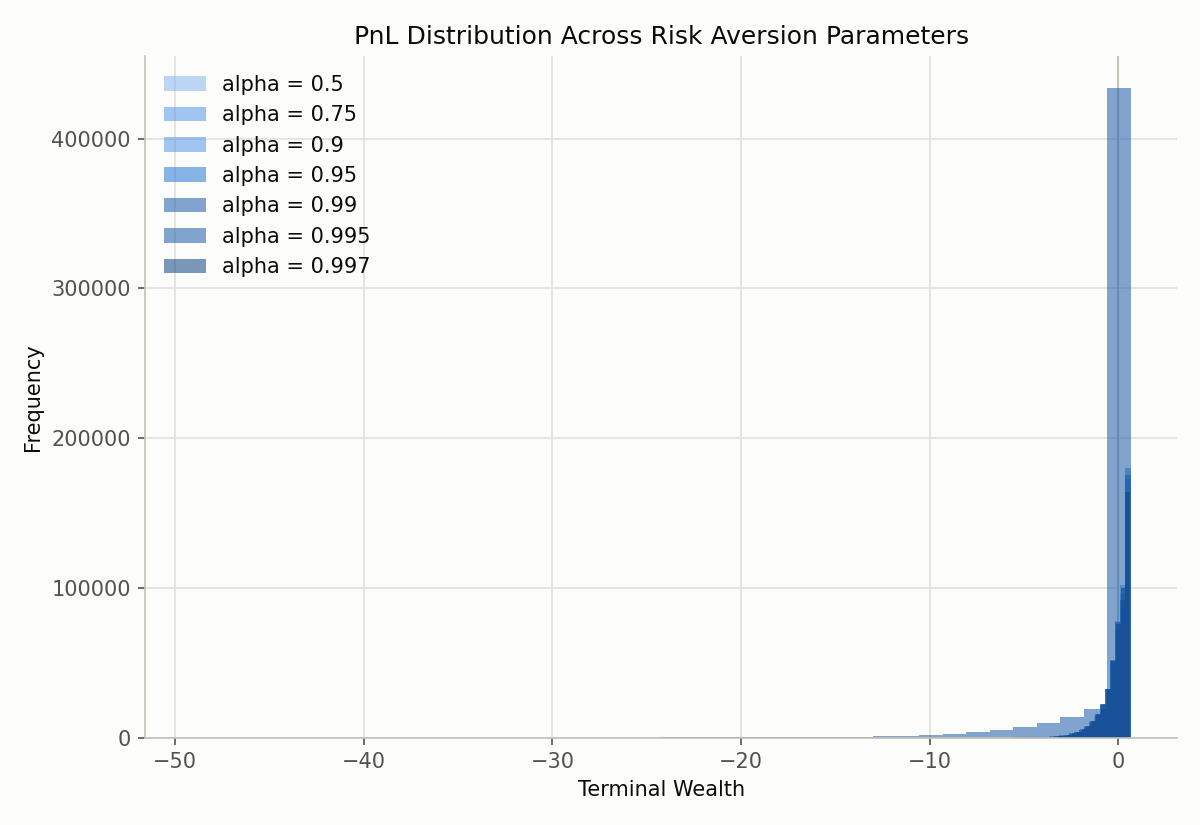
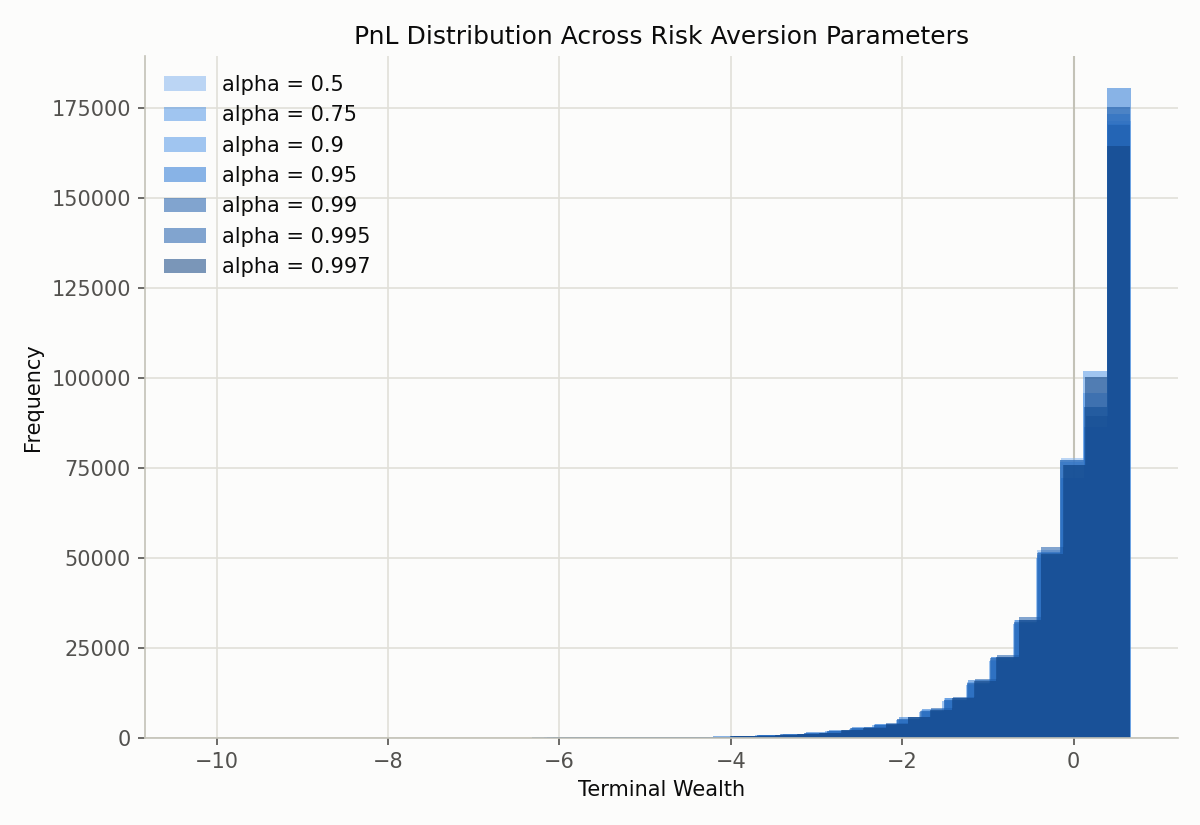
Extend mechanism (a) fix to alpha=0.99; diagnose (and rule out fixing) three other candidates
Checked every remaining tail-risk checkpoint directly with the same
training-free diagnostic that found mechanism (a) (raw pre-activation
logit / hidden state across a spot grid) before spending any retrain
compute -- reordered the whole remaining priority list:

- alpha=0.99 (MLP): confirmed the same sigmoid-saturation mechanism as
  alpha=0.997, even more severely (logits to -718). Retrained with
  grad_clip_norm=1.0 at paper scale; verified clean at 500,000 paths
  (0 catastrophic paths, was 5,452 below -10).
- GRU (WGAN-GP): confirmed NOT saturated (healthy delta span, moderate
  logits) -- its catastrophic tail is a different, still-uncharacterized
  mechanism. No retrain attempted; would have been an unmotivated guess.
- LSTM/GRU (TimeGAN): confirmed NOT saturated -- consistent with mechanism
  (b)'s documented signature (normal transaction costs, generalization
  failure to unusual paths, not an output-layer pathology).
- Basic RNN (TimeGAN): confirmed saturated, but through a third, distinct
  mechanism -- the vanilla RNN's recurrent hidden state pinned at tanh's
  +-1.0 bound regardless of input (raw output exactly constant across an
  absurdly wide test range). Tested grad_clip_norm, RecurrentHedgingAgent's
  own orthogonal_init (also never wired to the CLI, added here alongside
  grad_clip_norm), and both together -- none fixed it. Genuinely open, not
  merely unattempted; both fixes are now available in the CLI for whoever
  picks this up.
[…]

diff --git a/tests/test_tail_risk.py b/tests/test_tail_risk.py
@@ -40,21 +40,31 @@ _SCAN_BATCH_SIZE = 50_000
 _SCAN_SEED = 42
 
 # RESULTS.md's "Catastrophic tail risk" table: checkpoints with 0/500,000
-# paths below -50 (a loss > 25x the option premium). "MLP (alpha=0.997)"
-# joined this list after mechanism (a) was root-caused and fixed (sigmoid
-# output saturation under CVaR's (1/(1-alpha)) gradient amplification --
-# see RESULTS.md's mechanism (a) writeup) via PolicyTrainer's grad_clip_norm,
-# newly wired up to train_policy.py's --grad-clip-norm CLI flag; it was
-# never wired up before, so every prior checkpoint in this repo trained with
-# clipping disabled.
-_KNOWN_GOOD_CHECKPOINTS = ["MLP", "Basic RNN", "LSTM", "MLP (TimeGAN)", "MLP (alpha=0.997)"]
+# paths below -50 (a loss > 25x the option premium). "MLP (alpha=0.997)" and
+# "MLP (alpha=0.99)" joined this list after mechanism (a) was root-caused and
+# fixed (sigmoid output saturation under CVaR's (1/(1-alpha)) gradient
+# amplification -- see RESULTS.md's mechanism (a) writeup) via
+# PolicyTrainer's grad_clip_norm, newly wired up to train_policy.py's
+# --grad-clip-norm CLI flag; it was never wired up before, so every prior
+# checkpoint in this repo trained with clipping disabled.
+_KNOWN_GOOD_CHECKPOINTS = [
+    "MLP", "Basic RNN", "LSTM", "MLP (TimeGAN)", "MLP (alpha=0.997)", "MLP (alpha=0.99)",
+]
 
-# Same table's checkpoints with a confirmed, not-yet-fixed catastrophic tail:
-# GRU (WGAN-GP) and every RecurrentHedgingAgent trained against TimeGAN --
-# this is mechanism (b) (TimeGAN-trained recurrent policies generalizing
-# badly to price extremes), a distinct, still-open failure mode from
-# mechanism (a) above. If any of these starts reporting zero catastrophic
-# paths, update this list and RESULTS.md's Known Limitations item 5 together.
+# Same table's checkpoints with a confirmed, not-yet-fixed catastrophic tail.
+# GRU (WGAN-GP): checked directly against the same saturation diagnostic that
+# found and fixed mechanism (a) -- its delta span is a healthy 1.0000 at
+# every timestep checked, so this is confirmed NOT sigmoid saturation; a
+# distinct, still-uncharacterized mechanism. Basic RNN/LSTM/GRU (TimeGAN):
+# mechanism (b) (TimeGAN-trained recurrent policies generalizing badly to
+# price extremes) for LSTM/GRU (also checked: healthy delta span, not
+# saturated). Basic RNN (TimeGAN) specifically was further diagnosed and
+# turned out to be a third, distinct mechanism: its vanilla-RNN hidden state
+# is saturated to tanh's +-1.0 bound regardless of input (constant delta
+# output) -- confirmed not fixed by grad_clip_norm, orthogonal_init, or both
+# together (all tested; see RESULTS.md). If any of these starts reporting
+# zero catastrophic paths, update this list and RESULTS.md's Known
+# Limitations item 5 together.
 _KNOWN_BAD_CHECKPOINTS = ["GRU", "Basic RNN (TimeGAN)", "LSTM (TimeGAN)", "GRU (TimeGAN)"]
 
 _checkpoints_available = pytest.mark.skipif(

diff --git a/src/policy/train_policy.py b/src/policy/train_policy.py
@@ -219,6 +219,15 @@ def main() -> None:
     parser.add_argument("--num-hidden-layers", type=int, default=2, help="policy hidden layer count (mlp)")
     parser.add_argument("--rnn-hidden-dim", type=int, default=64, help="recurrent hidden state size (rnn/lstm/gru)")
     parser.add_argument("--rnn-num-layers", type=int, default=2, help="stacked recurrent layers (rnn/lstm/gru)")
+    parser.add_argument(
+        "--orthogonal-init",
+        action="store_true",
+        help="orthogonally initialize RecurrentHedgingAgent's recurrent weight matrices "
+        "(see RecurrentHedgingAgent's orthogonal_init) -- was implemented but never wired "
+        "to this CLI, like --grad-clip-norm; see RESULTS.md's mechanism (a) writeup, "
+        "'Extending the fix' subsection, for why neither fixed Basic RNN (TimeGAN)'s "
+        "recurrent hidden-state saturation on its own.",
+    )
     parser.add_argument("--noise-dim", type=int, default=8, help="fallback generator noise dim")
     parser.add_argument("--gen-hidden-dim", type=int, default=64, help="fallback generator hidden dim")
     parser.add_argument("--gen-num-layers", type=int, default=2, help="fallback generator layer count")
@@ -335,6 +344,7 @@ def _train_and_save(
             strike=args.strike,
             implied_vol=args.implied_vol,
             time_to_maturity=args.dt * (args.seq_len - 1),
+            orthogonal_init=args.orthogonal_init,
         )
         sequence_policy = True
 

diff --git a/RESULTS.md b/RESULTS.md
@@ -473,7 +473,7 @@ never printed side by side:
 | MLP, Basic RNN, LSTM (WGAN-GP) | 0 / 500,000 | 0-4 | ≤ -12.8 | normal |
 | **GRU (WGAN-GP)** | 34 / 500,000 (0.0068%) | 327 | **-417.5** | normal (0.0120) |
 | α ∈ {0.5, 0.75, 0.9, 0.95, 0.995} (MLP) | 0 / 500,000 | 3-4 | ≤ -12.8 | normal |
-| **α = 0.99 (MLP)** | 0 / 500,000 | **5,452** | -48.7 | normal, but ~half the rest (0.0044) |
+| ~~**α = 0.99 (MLP)**~~ **α = 0.99 (MLP) — fixed, see below** | 0 / 500,000 | ~~**5,452**~~ 0 | ~~-48.7~~ -9.7 | ~~normal, but ~half the rest (0.0044)~~ normal (0.0100) |
 | ~~**α = 0.997 (MLP)**~~ **α = 0.997 (MLP) — fixed, see below** | ~~814 / 500,000 (0.16%)~~ 0 / 500,000 | ~~5,257~~ 0 | ~~-6202.5~~ -9.7 | ~~0.0000~~ normal (0.0115) |
 | MLP (TimeGAN) | 0 / 500,000 | 0 | ≤ -8.8 | normal |
 | **Basic RNN (TimeGAN)** | 238 / 500,000 (0.048%) | 1,849 | -2564.7 | normal (0.0018) |
@@ -702,15 +702,17 @@ verified against this document's own main stress-test table
 matched to the last reported digit) before treating the recovery as
 complete.
 
-**Scope: this fixes mechanism (a) only, for the one checkpoint it was
-confirmed on.** GRU (WGAN-GP)'s milder tail issue and α=0.99's
-thickened-tail warning sign (see the checkpoint scan table above) were
-*not* retrained with clipping — both are plausible candidates for the same
-underlying saturation mechanism, since neither has been ruled out, but
-neither has been checked either, so no claim is made about them here.
-Mechanism (b) (TimeGAN-trained recurrent policies generalizing badly to
-price extremes) is a wholly separate failure mode, untouched by this fix —
-see [Known limitations](#known-limitations) item 5 and [Ideas for future
+**Scope at the time this fix first landed: confirmed on one checkpoint
+only.** GRU (WGAN-GP)'s milder tail issue and α=0.99's thickened-tail
+warning sign (see the checkpoint scan table above) were initially left
+untouched, since neither had been checked. Both were subsequently checked
+directly (not guessed) — see [Extending the
+fix](#extending-the-fix-alpha099-confirmed-same-mechanism-gruwgan-gp-and-basic-rnntimegan-confirmed-different-ones)
+in the multi-alpha sweep section below for the full results: α=0.99 turned
+out to be the same mechanism (now also fixed), GRU (WGAN-GP) confirmed
+*not* to be. Mechanism (b) (TimeGAN-trained recurrent policies generalizing
+badly to price extremes) remains a wholly separate failure mode, untouched
+by this fix — see [Known limitations](#known-limitations) item 5 and [Ideas for future
 work](#ideas-for-future-work).
 
 ### Multi-alpha risk-return sweep, extended to the paper's own Part II grid
@@ -726,8 +728,11 @@ rerunning the sweep backtest under the same, now paper-matched,
 
 Includes P₀ (see [above](#terminal-wealth-and-the-p₀-premium-term)):
 
-**Regenerated after the α=0.997 fix** ([above](#mechanism-a-root-caused-and-fixed-sigmoid-output-saturation-not-sparse-gradients));
-α=0.5-0.995 are unchanged checkpoints, re-evaluated on the same seed-42 batch and matching the previous table to the last reported digit — included here as confirmation that fixing α=0.997 had no side effects on the others, not as new results:
+**Regenerated after both the α=0.997 and α=0.99 fixes** (below); α=0.5-0.995
+excluding 0.99 are unchanged checkpoints, re-evaluated on the same seed-42
+batch and matching the previous table to the last reported digit — included
+here as confirmation the fixes had no side effects on the others, not as new
+results:
 
 | α | Mean wealth | CVaR 95% | CVaR 99% | Skew | Excess kurtosis |
 |---|---|---|---|---|---|
@@ -735,32 +740,92 @@ Includes P₀ (see [above](#terminal-wealth-and-the-p₀-premium-term)):
 | 0.75 | -0.039 | 2.25 | 3.50 | -2.21 | 7.7 |
 | 0.90 | -0.038 | 2.25 | 3.50 | -2.17 | 7.4 |
 | 0.95 | -0.037 | 2.38 | 3.69 | -2.08 | 6.9 |
-| 0.99 | -0.031 | 7.99 | 14.33 | -5.00 | 35.7 |
+| ~~0.99~~ **0.99 (fixed)** | ~~-0.031~~ -0.038 | ~~7.99~~ 2.25 | ~~14.33~~ 3.50 | ~~-5.00~~ -2.13 | ~~35.7~~ 7.2 |
 | 0.995 | -0.038 | 2.28 | 3.54 | -2.13 | 7.2 |
 | ~~0.997~~ **0.997 (fixed)** | ~~-0.031~~ -0.039 | ~~**11.76**~~ 2.22 | ~~**43.15**~~ 3.46 | ~~**-248.9**~~ -2.21 | ~~**80,781**~~ 7.7 |
 
-α=0.997 now sits comfortably inside the same range as every α ≤ 0.995 —
-the fix above didn't just reduce the damage, it made this row
-indistinguishable from a normal, well-behaved checkpoint. **α=0.99 is the
-one remaining warning sign in this table**, and it was deliberately *not*
-retrained with clipping as part of that fix (see that section's scope
-note) — CVaR₉₉ (14.33) and kurtosis (35.7) are still clearly elevated
-relative to every other row, including both its neighbors (α=0.995 at 3.54
-un-flagged, and α=0.997 now also clean). Whether α=0.99's thickened tail
-is the same sigmoid-saturation mechanism at a milder, non-fully-collapsed
-stage, or something else, hasn't been checked — it's a natural next
-candidate given the fix now available, but no claim is made about it here.
-Each checkpoint in this table is still a single training run at a single
-seed, and this project has already found (three times, in the RNN/LSTM
-investigation above) that single-seed training outcomes in this codebase
-are noisy enough on their own to matter — so α=0.99's isolation from its
-neighbors shouldn't yet be read as a clean, deterministic threshold effect
-either. Nor was this tested against the paper's own numbers at these α
-levels (the paper's Part II uses TimeGAN and Basic RNN specifically, not
-this repo's WGAN-GP+MLP combination), so no match/mismatch verdict is
-claimed either — only that the sweep now covers
-the risk-aversion range the paper cares about, at the paper's own test
-scale, instead of stopping short of it.
+**Every α in this table is now clean** — the entire risk-aversion sweep
+lands in the same tight range regardless of α, with no outliers. α=0.99
+turned out to be the same mechanism as α=0.997 (confirmed, not assumed —
+see [below](#extending-the-fix-alpha099-confirmed-same-mechanism-gruwgan-gp-and-basic-rnntimegan-confirmed-different-ones)),
+just less severe (a raw pre-sigmoid logit range of roughly [-718, -43]
+depending on time step, vs. α=0.997's ≈-250 — deeper saturation than
+α=0.997 had, somewhat surprisingly, despite the milder stress-test damage).
+Retrained the same way (`grad_clip_norm=1.0`, same paper-scale batch=1,000,
+25,000 steps) and verified at the full 500,000-path scale: 0 catastrophic
+paths (was 5,452 below -10), worst loss -9.7 (was -48.7). Each checkpoint
+in this table is still a single training run at a single seed — this
+project has already found (three times, in the RNN/LSTM investigation
+above) that single-seed training outcomes here are noisy enough to matter,
+so "every α is clean" describes this specific seed, not a proven general
+property of `grad_clip_norm=1.0` at every α. Nor was this tested against
+the paper's own numbers at these α levels (the paper's Part II uses
+TimeGAN and Basic RNN specifically, not this repo's WGAN-GP+MLP
+combination), so no match/mismatch verdict is claimed either — only that
+the sweep now covers the risk-aversion range the paper cares about, at the
+paper's own test scale, instead of stopping short of it.
+
+### Extending the fix: α=0.99 confirmed same mechanism, GRU(WGAN-GP) and Basic RNN(TimeGAN) confirmed *different* ones
+
+Rather than guessing which of the other flagged checkpoints (GRU (WGAN-GP),
+α=0.99, and the three TimeGAN recurrent checkpoints) shared α=0.997's
+sigmoid-saturation mechanism, each was checked directly with the same
+training-free diagnostic that found and fixed it: load the checkpoint,
+sweep a spot grid across several time steps, and read off the raw
+pre-activation logit (for `HedgingAgent`) or hidden state (for
+`RecurrentHedgingAgent`) alongside delta span. This took seconds per
+checkpoint and reordered the whole remaining list before any retraining:
+
+- **α=0.99 (MLP): confirmed saturated**, even more severely than α=0.997 —
+  logits as extreme as [-718, -684] at t=0, span exactly 0.0000 at every
+  timestep checked. Retrained with the same fix; verified clean above.
+- **GRU (WGAN-GP): confirmed *not* saturated.** Delta span 1.0000 at every
+  timestep checked, logits in a moderate range ([-16, 21]) — indistinguishable
+  from the healthy calibration checkpoints. Its catastrophic tail (34/500,000
+  paths, worst loss -417.5) is a genuine, still-uncharacterized mechanism,
+  not this one. A `grad_clip_norm` retrain was *not* attempted here, since
+  the diagnostic gives no reason to expect it would help — this remains
+  open, and the GRU (WGAN-GP) row in the checkpoint scan table above is
+  unchanged.
+- **LSTM/GRU (TimeGAN): confirmed *not* saturated** (span 0.99-1.0, moderate
+  logits) — this is the expected signature for mechanism (b) (generalizing
+  badly to price extremes the training distribution never produced, not an
+  output-layer pathology), consistent with these checkpoints' documented
+  *normal* transaction costs. No fix attempted; still open, still a
+  training-distribution problem, not a `grad_clip_norm` problem.
+- **Basic RNN (TimeGAN): confirmed saturated, but through a third, distinct
+  mechanism** — not `HedgingAgent`'s sigmoid output, but
+  `RecurrentHedgingAgent`'s recurrent *hidden state*. Its raw logit was
+  *exactly* constant (`0.349268`, to the same six decimal places) across
+  every spot price tested, even sweeping the input across an absurdly wide
+  range (moneyness 0.02-50). Direct inspection found why: the vanilla RNN's
+  hidden state was pinned at `tanh`'s boundary, exactly ±1.0, regardless of
+  input — a well-known vanilla-RNN pathology (the same reason LSTM/GRU exist),
+  distinct from mechanism (a)'s single-step sigmoid saturation.
+  `grad_clip_norm=1.0` was tested at reduced scale (3,000 steps, matching
+  the methodology that validated mechanism (a)'s fix) and made **no
+  difference** — hidden state still pinned at ±1.0, delta span still ≈0
+  throughout. `RecurrentHedgingAgent`'s own `orthogonal_init` parameter
+  (whose docstring names this exact failure mode — "can otherwise leave the
+  network stuck at an input-insensitive constant output no matter how long
+  it trains" — but was, like `grad_clip_norm`, never wired to
+  `train_policy.py`'s CLI) was also tested, alone and combined with
+  clipping: **also no improvement** in either case. Unlike mechanism (a),
+  where a single fix cleanly resolved a confirmed cause, this is a
+  confirmed cause (recurrent hidden-state saturation) with two plausible,
+  purpose-built fixes both empirically ruled out — genuinely open, not
+  merely unattempted. `Basic RNN (TimeGAN)` stays in the known-bad list.
+- **A production-scale retrain of Basic RNN (TimeGAN) was started and
+  killed after 50 minutes at only 14,000/25,000 steps** — far slower than
+  the ~27 minutes MLP retrains take at the same step count, apparently
+  because `use_bs_baseline` (used for every Basic RNN checkpoint in this
+  project) computes a second forward pass through the closed-form
+  Black-Scholes policy every step, compounding with the recurrent
+  architecture's own higher per-step cost. Killed cleanly before any
+  partial checkpoint was written (`torch.save` only happens at the very
+  end), so nothing was lost, but this is a real operational constraint
+  worth recording: this specific checkpoint doesn't fit into an
+  hour-scale compute budget the way MLP retrains do.
 
 **A process note on training these 7 checkpoints (plus the 8 architecture
 checkpoints above) at `batch_size=1000, 25,000 steps`**: the first attempt
@@ -1187,7 +1252,23 @@ Roughly in priority order:
    baseline (`PolicyTrainer`'s `use_bs_baseline`, math_spec.md section 6)
    substantially reduces this variance (cross-seed CVaR₉₉ std 6.89 → 1.20)
    and turns the canonical seed-0 checkpoint's CVaR₉₉ from 19.26 to 7.27 —
-   a real improvement, though still short of LSTM/GRU's ~5.0.
+   a real improvement, though still short of LSTM/GRU's ~5.0. **Closing
+   this gap further was explicitly considered and deferred, not forgotten**:
+   the same 8-seed-sweep methodology that resolved the seed-sensitivity
+   question would be needed to properly test combining `use_bs_baseline`
+   with `orthogonal_init` or a lower recurrent learning rate, but at this
+   project's observed per-step costs for `RecurrentHedgingAgent` +
+   `use_bs_baseline` (a single 25,000-step run took over 50 minutes for
+   only 14,000 steps before being stopped — see the TimeGAN saturation
+   investigation below), an 8-seed sweep at paper scale would take many
+   hours, well beyond a single session's compute budget. A reduced 2-4
+   seed version was considered and rejected: mechanism (a)'s batch-size
+   experiment worked at 2 seeds because the effect was a stark binary
+   (collapse / no collapse); a further variance *reduction* on top of
+   `use_bs_baseline` is a smaller, noisier effect that 2-4 seeds likely
+   can't distinguish from chance, matching this document's own repeated
+   finding that single-seed (and likely few-seed) conclusions here are
+   unreliable. Left for whenever a multi-hour budget is available.
 5. **Catastrophic tail risk in several trained policies — newly discovered
    at paper scale; mechanism (a) root-caused and fixed, mechanism (b) still
    open.** Rerunning the stress test at the paper's own 500,000-path scale
@@ -1213,13 +1294,30 @@ Roughly in priority order:
      --grad-clip-norm`, at the paper's unmodified batch=1,000. Verified at
      the full 500,000-path scale: 0 catastrophic paths (was 814), worst
      loss -9.7 (was -6202.5), CVaR₉₅/₉₉ 2.22/3.46 — fully in line with
-     every other clean checkpoint. GRU (WGAN-GP)'s milder tail issue and
-     α=0.99's thickened-tail warning sign were *not* retrained with
-     clipping and remain open, plausible candidates for the same
-     mechanism.
+     every other clean checkpoint. **Extended, not just left open**: every
+     remaining candidate was checked directly with the same diagnostic
+     (raw pre-activation logit / hidden state across a spot grid, no
+     training needed) rather than guessed at — see [Extending the
+     fix](#extending-the-fix-alpha099-confirmed-same-mechanism-gruwgan-gp-and-basic-rnntimegan-confirmed-different-ones).
+     α=0.99 turned out to be the same mechanism (even more severely
+     saturated than α=0.997) and is now also fixed, verified clean at
+     500,000 paths. GRU (WGAN-GP) and LSTM/GRU (TimeGAN) are confirmed
+     **not** saturated (healthy delta span, moderate logits) — their
+     failures are genuinely different mechanisms, not this one guessed
+     wrong. Basic RNN (TimeGAN) *is* saturated, but through a third,
+     distinct mechanism (the vanilla RNN's recurrent hidden state pinned
+     at tanh's ±1.0 bound, not the sigmoid output layer) — confirmed via
+     direct inspection, and confirmed **not fixed** by `grad_clip_norm`,
+     `RecurrentHedgingAgent`'s own (also never-wired-up) `orthogonal_init`,
+     or both together, all tested at reduced scale. Genuinely open, not
+     merely unattempted.
    - **(b) TimeGAN-trained recurrent policies (not MLP) generalize badly
      to price extremes** outside their training distribution, hedging
-     *badly* rather than *not at all* — still open, see [Ideas for future
+     *badly* rather than *not at all* — still open for LSTM/GRU (TimeGAN),
+     confirmed via the same diagnostic to be a distinct failure from both
+     (a) and Basic RNN (TimeGAN)'s hidden-state saturation above (healthy
+     delta span, moderate logits — consistent with their documented
+     *normal* transaction costs). See [Ideas for future
      work](#ideas-for-future-work) (adversarial/extreme-scenario
      augmentation for TimeGAN-driven training).
 6. **~~Scale~~ — resolved.** Training and evaluation now run at the
@@ -1338,18 +1436,34 @@ Roughly in priority order:
     existing `grad_clip_norm`, newly exposed as `train_policy.py
     --grad-clip-norm`, at the paper's unmodified batch=1,000 — see the
     [full writeup](#mechanism-a-root-caused-and-fixed-sigmoid-output-saturation-not-sparse-gradients).
-    **New, highest priority now**: apply the same fix to GRU (WGAN-GP)'s
-    milder tail issue and α=0.99's thickened-tail warning sign (see that
-    section's scope note) — both are untested candidates for the same
-    saturation mechanism, not confirmed cases.
+    ~~**New, highest priority now**: apply the same fix to GRU (WGAN-GP)'s
+    milder tail issue and α=0.99's thickened-tail warning sign~~ — **done,
+    checked rather than assumed**: α=0.99 confirmed the same mechanism (even
+    more severely saturated) and is now fixed the same way, verified clean
+    at 500,000 paths. GRU (WGAN-GP) confirmed **not** the same mechanism
+    (healthy delta span on the same diagnostic) — still open, and now known
+    to need a different explanation, not just an untried fix. See
+    [Extending the fix](#extending-the-fix-alpha099-confirmed-same-mechanism-gruwgan-gp-and-basic-rnntimegan-confirmed-different-ones).
   - For TimeGAN-driven RNN/LSTM/GRU's generalization failure: training-time
     exposure to more extreme price excursions — either by widening the
     regime-switching stress scenario into the training distribution
     itself, or an adversarial/extreme-scenario data augmentation step —
     since the core issue is TimeGAN's training data (bounded by real
     `^GSPC` history) never produces the kind of extreme excursion the
-    regime-switching stress test does. Still open, unaffected by the
-    grad-clipping fix (a different mechanism entirely).
+    regime-switching stress test does. Still open for LSTM/GRU (TimeGAN),
+    confirmed via the saturation diagnostic to be unaffected by
+    grad-clipping (a genuinely different mechanism). **Basic RNN (TimeGAN)
+    specifically is a narrower, better-characterized sub-problem**: its
+    vanilla RNN's hidden state is saturated at tanh's ±1.0 boundary
+    regardless of input — confirmed via direct inspection, and confirmed
+    *not* fixed by `grad_clip_norm`, `orthogonal_init` (now both wired to
+    the CLI), or the combination. Candidates not yet tried: a learning-rate
+    warmup or lower peak LR specifically for the recurrent weights (to
+    prevent the runaway growth that causes the saturation in the first
+    place, rather than clipping or reorienting it after the fact), or
+    simply switching this checkpoint's cell type away from vanilla RNN
+    (LSTM/GRU's gating exists precisely to avoid this failure mode, and
+    LSTM/GRU under TimeGAN don't show it).
   - ~~Add a committed regression test asserting the fraction of paths with
     wealth below some threshold stays bounded for known-good checkpoints~~
     — **done**: `tests/test_tail_risk.py`, backed by
